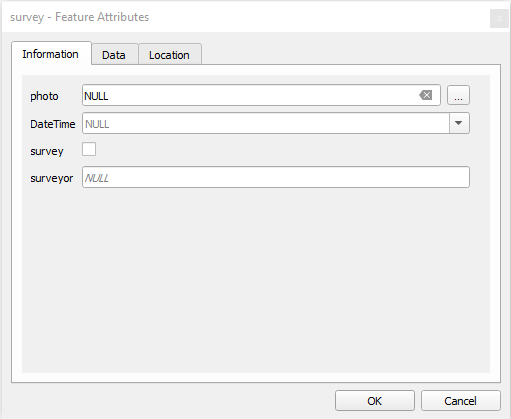
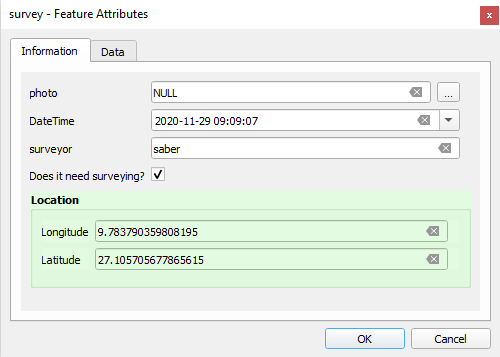
more changes

Changed region(s): [[0.0, 0.0, 1.0, 1.0], [0.06, 0.5546, 0.9, 0.7703], [0.0, 0.0, 0.3, 0.0616]]

diff --git a/www/pages/settingup_forms.md b/www/pages/settingup_forms.md
@@ -14,62 +14,53 @@ Setting up forms can be configured using [QGIS widget types](https://docs.qgis.o
 In the sections below, we go through examples of setting up different widgets for forms in QGIS and Input:
 
 ## [Form layout](/howto/settingup_forms_layout)
-For layouts can be configure to have multiple groups and subgroups. This will allow users to have a more organised way of grouping the fields. With conditional visibility, you can also turn the subgroups on and off:
+To have multiple tabs with subgroups in your form (with conditional visibility) click [here](/howto/settingup_forms_layout):
 
-
-![layout](../images/input_forms_layout.png)
 ![layout](../images/input_forms_layout1.png)
-![layout](../images/input_forms_layout2.png)
 
-In the above example, fields are grouped into 2 tabs: **Information** and **Data** with the **Location** subgroup was controlled by the state of **surveyed** field.
+## [Numeric field](/howto/settingup_forms_slider)
 
-[For more information on how to setup the forms layout in QGIS see this section.](/howto/settingup_forms_layout)
-
-## Text field
-
-When you have a text field, the default widget to fill in the values are set automatically to be **Text edit** widget. You can configure the field to be able multiline text in QGIS:
-
-![layout](../images/input_forms_text.png)
-
-## Numeric field
-
-When you have an integer or a decimal filed, you can configure edit widget in QGIS and set it to **Range**:
+To use numeric fields using **Range** with **Slider** in your form, click [here](/howto/settingup_forms_slider):
 
 ![layout](../images/input_forms_numbers.png)
+![layout](../images/input_forms_slider1.png)
 
 ## [Photos](/howto/settingup_forms_photos)
 
-You can use your phone/tablet camera to take photos and attach them to a field. Alternatively, you can attach existing photos from your phone/tablet to a field.
-
-To be able to use camera and photos in your form, you need to change edit widget type in QGIS to **Attachment**. Ensure you select **Relative** path for the attachment under the widget configuration in QGIS.
+To use your device camera or existing photos from gallery to add a photo in a field, click [here](/howto/settingup_forms_photos):
 
 ![layout](../images/input_forms_photo1.png)
 
-[For more information on setting this widget click here.](/howto/settingup_forms_photos)
 
 ## [Date and time](/howto/settingup_forms_datetime)
 
-If one of your fields data type is **Date** or **Date and Time**, QGIS will automatically assigns **Date and Time** edit widget tool. This will allow you to select date and time using a calendar in Input:
+To use calendar widget to assign date and time to a field in your form, click [here](/howto/settingup_forms_datetime):
 
 ![layout](../images/input_forms_datetime1.png)
-![layout](../images/input_forms_datetime2.png)
-
-**Tip**: you can set the default value for this widget in QGIS to *now()** and the current date will be recoded when you capture a feature.
-
-[To learn more about setting date and time widget for your forms, click here.](/howto/settingup_forms_datetime)
 
 ## [Checkbox](/howto/settingup_forms_checkbox)
 
-Checkbox is set by default in QGIS, if your data type is **Bolean**. You can also set the edit widget to have a binary choice in the form.
+To use checkbox for binary selection in a field, click [here](/howto/settingup_forms_checkbox)
 
 ![layout](../images/input_forms_checkbox1.png)
 ![layout](../images/input_forms_checkbox2.png)
 
-[For more information, see the detailed configuration in QGIS here.](/howto/settingup_forms_checkbox)
+## [Drop-down menu (value map)](/howto/settingup_forms_valuemap)
 
+To have a drop-down menu with pre-defined values, click [here](/howto/settingup_forms_valuemap)
 
-- [Slider](/howto/settingup_forms_slider)
-- [Drop-down menu (value map)](/howto/settingup_forms_valuemap)
-- [Default value](/howto/settingup_forms_defaults)
-- [Constraints](/howto/settingup_forms_constraints)
-- [Cascade or drill-down](/howto/settingup_forms_cascade)
+![layout](../images/input_forms_valuemap1.png)
+
+[Default value](/howto/settingup_forms_defaults):
+
+To have pre-populated values within the field (e.g. name of the surveyor, date/time of the survey, latitude and longitude of the feature), click [here](/howto/settingup_forms_defaults):
+
+![layout](../images/input_forms_defaults1.png)
+
+## [Constraints](/howto/settingup_forms_constraints)
+To enforce constraints on a field in your forms, click [here](/howto/settingup_forms_constraints)
+
+![layout](../images/input_forms_slider1.png)
+
+## [Cascade or drill-down](/howto/settingup_forms_cascade)
+To have a more complex form with drill-down menu option, click [here](/howto/settingup_forms_cascade)

diff --git a/www/pages/settingup_forms_layout.md b/www/pages/settingup_forms_layout.md
@@ -20,10 +20,10 @@ To set form layout, we are going to use **Drag-n-Drop** designer:
 
 We can add multiple groups and move **Fields** from the left column to the newly generated groups.
 
-In this example, we have created the following three groups:
+In this example, we have created the following two groups and a subgroup:
   - Information
+    - Location
   - Data
-  - Location
 
   The form will appear as below in QGIS now:
 
@@ -41,9 +41,6 @@ To set the visibility of **Location** depending on the value of **survey**:
     `"survey" IS TRUE`
 
 ![photos](../images/qgis_forms_layout_visibility.png)
-
-![photos](../images/qgis_forms_layout_visibility_attrib1.png)
-![photos](../images/qgis_forms_layout_visibility_attrib2.png)
 
 ## Input
 
